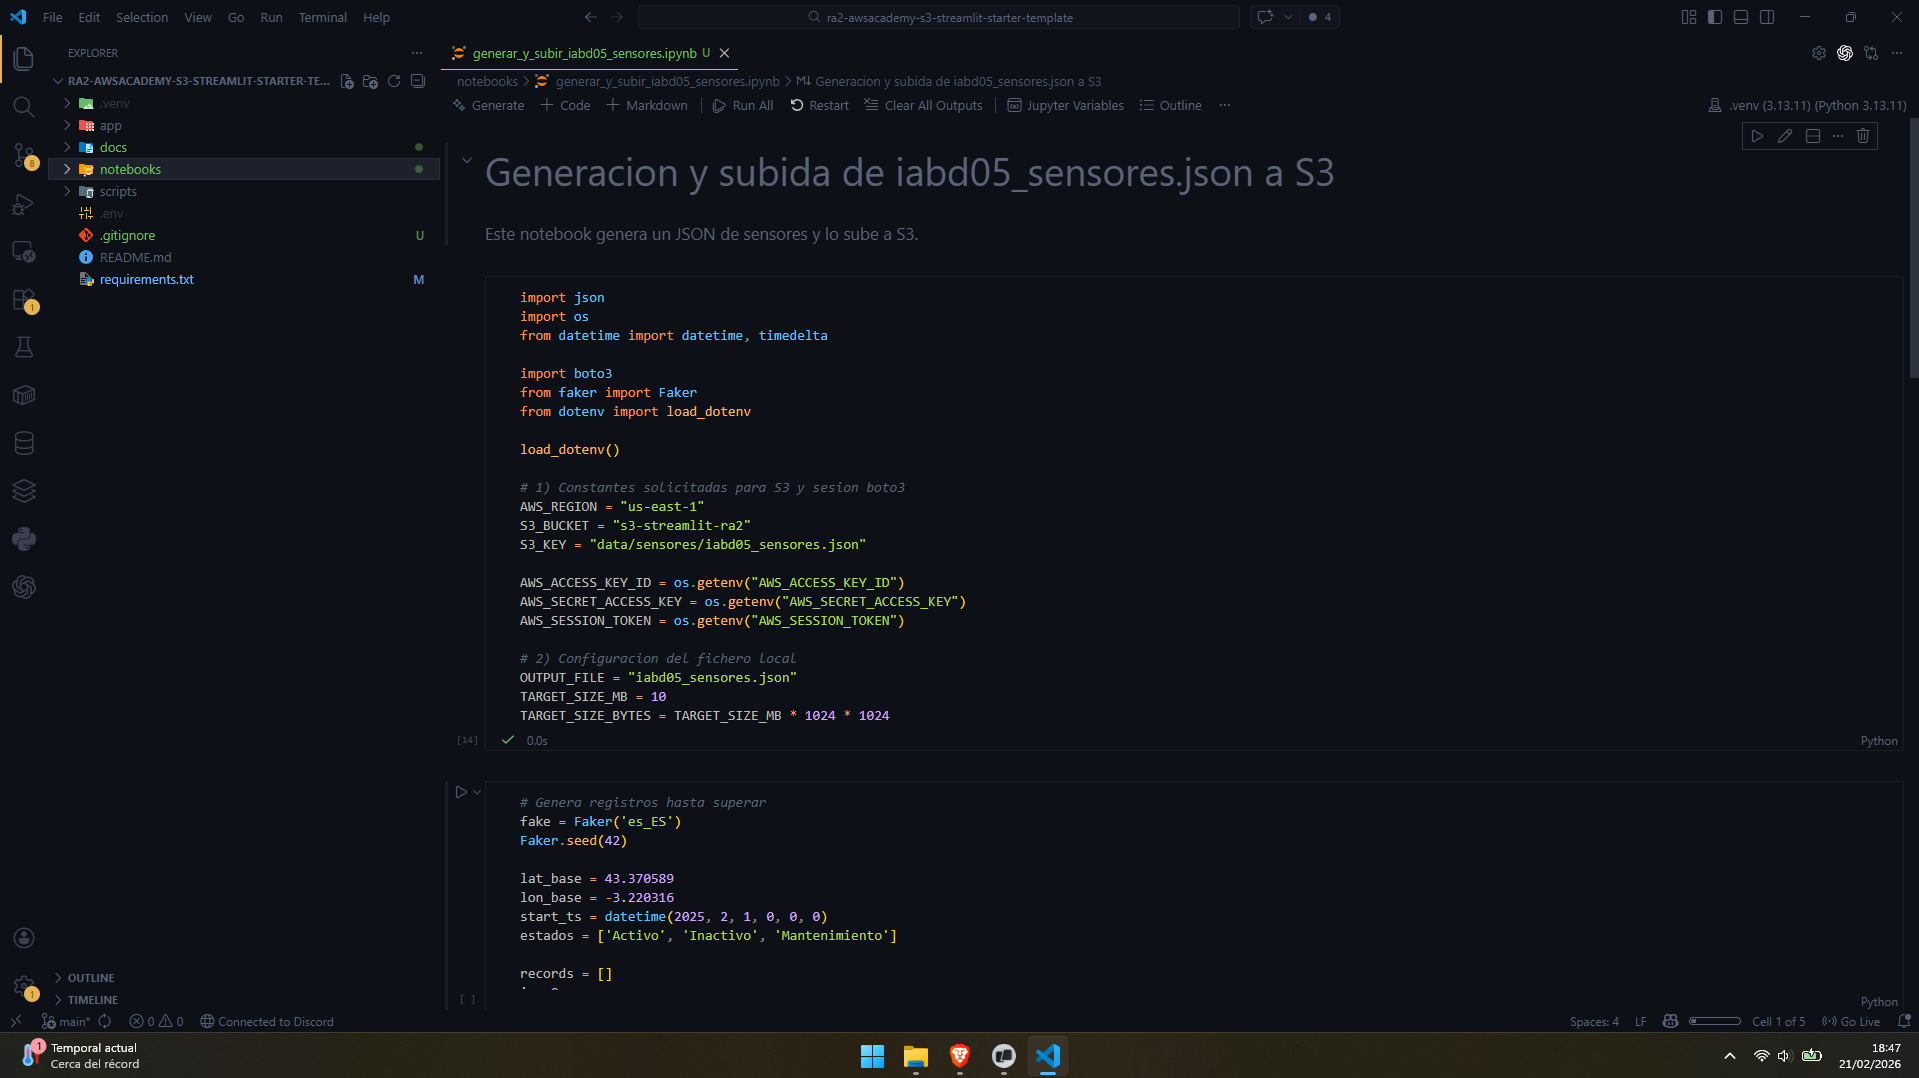
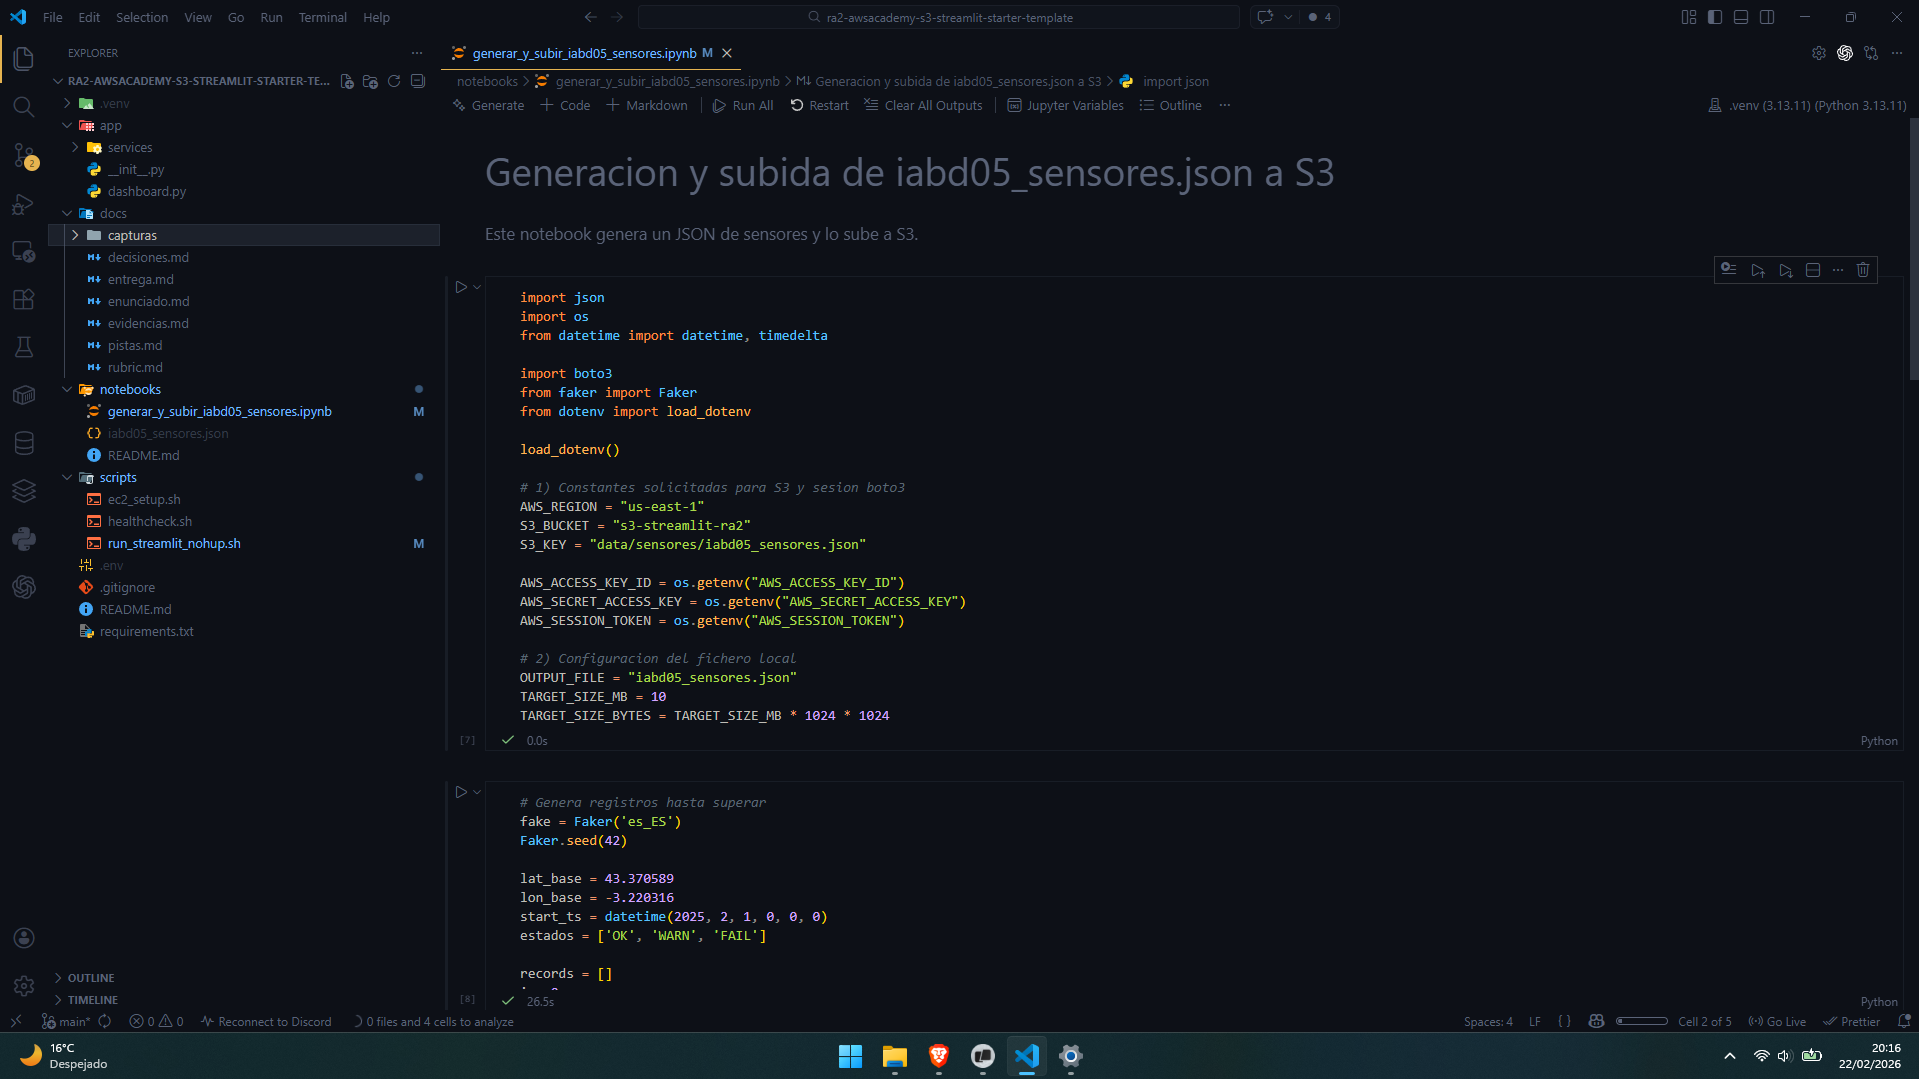
cambios en script, notebook y nuevas evidencias

diff --git a/docs/evidencias.md b/docs/evidencias.md
@@ -75,23 +75,35 @@ aws s3 ls s3://<BUCKET>/data/sensores/
 ## 6) Dashboard (funcionalidad)
 Incluye capturas donde se vea:
 
-- [ ] Filtro por `sensor_state`
-- [ ] Slider de temperatura
-- [ ] Tabla filtrada
-- [ ] Gráfica línea (temperatura vs tiempo)
-- [ ] Gráfica barras (CO₂ por sensor)
-- [ ] Mapa con sensores
+- [x] Filtro por `sensor_state`
+![alt text](capturas/6.1-Dashboard.png)
 
+- [x] Slider de temperatura
+![alt text](capturas/6.2-Dashboard.png)
+
+- [x] Tabla filtrada
+![alt text](capturas/6.3-Dashboard.png)
+
+- [x] Gráfica línea (temperatura vs tiempo)
+![alt text](capturas/6.4-Dashboard.png)
+
+- [x] Gráfica barras (CO₂ por sensor)
+![alt text](capturas/6.4-Dashboard.png)
+
+- [x] Mapa con sensores
+![alt text](capturas/6.5-Dashboard.png)
 ---
 
 ## 7) Despliegue final
-- [ ] Comando usado para arrancar en segundo plano (ej. `nohup` o script)
-- [ ] Captura del log (`tail -n 50 streamlit.log` o similar)
-- [ ] URL final:
+- [x] Comando usado para arrancar en segundo plano (ej. `nohup` o script)
+![alt text](capturas/7.1-Despligue.png)
+
+- [x] Captura del log (`tail -n 50 streamlit.log` o similar)
+- [x] URL final:
 
 **URL:** `http://IP_PUBLICA_EC2:8501`
 
-- [ ] Captura en navegador accediendo a la URL
+- [x] Captura en navegador accediendo a la URL
 
 ---
 
